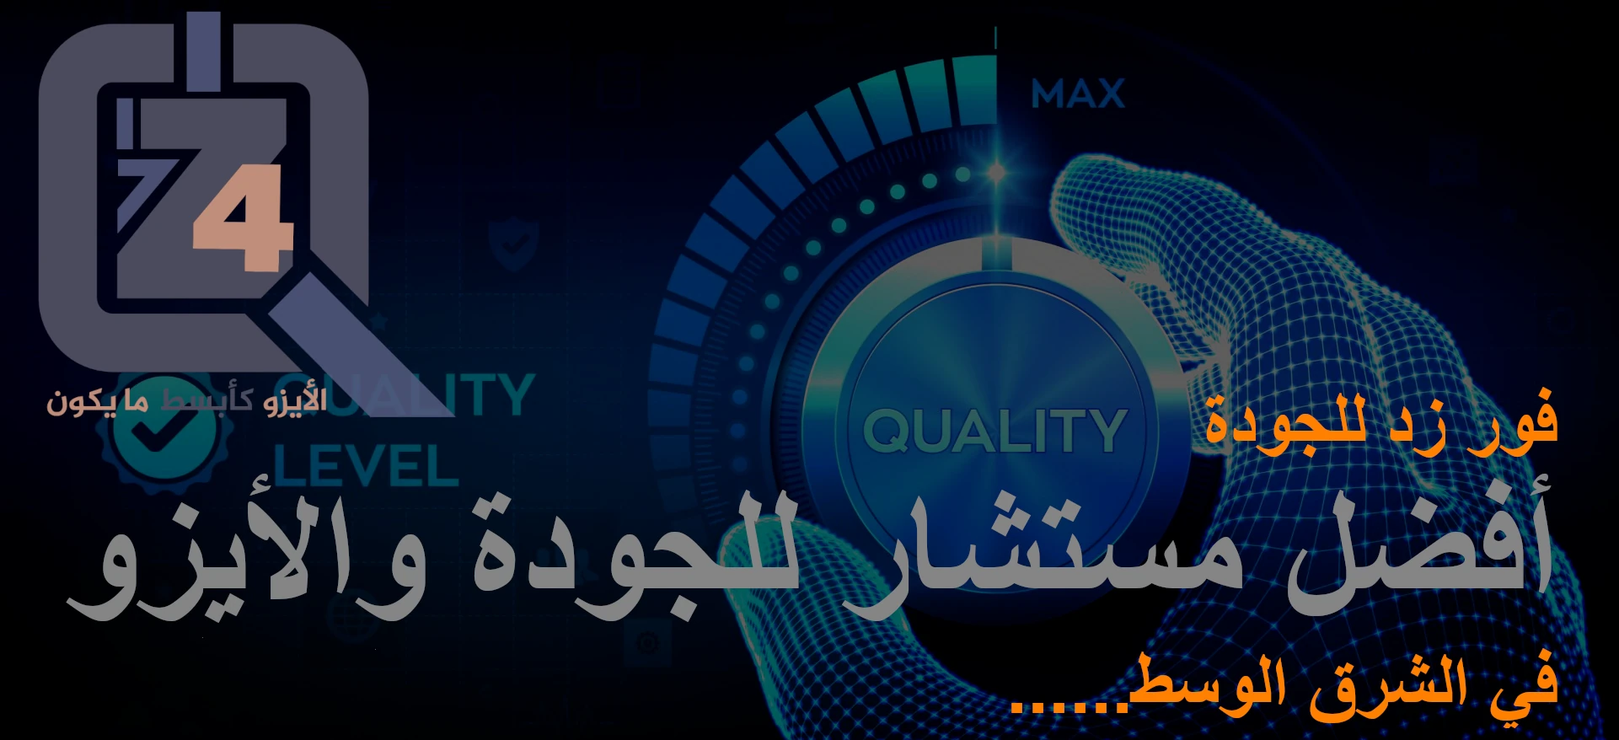
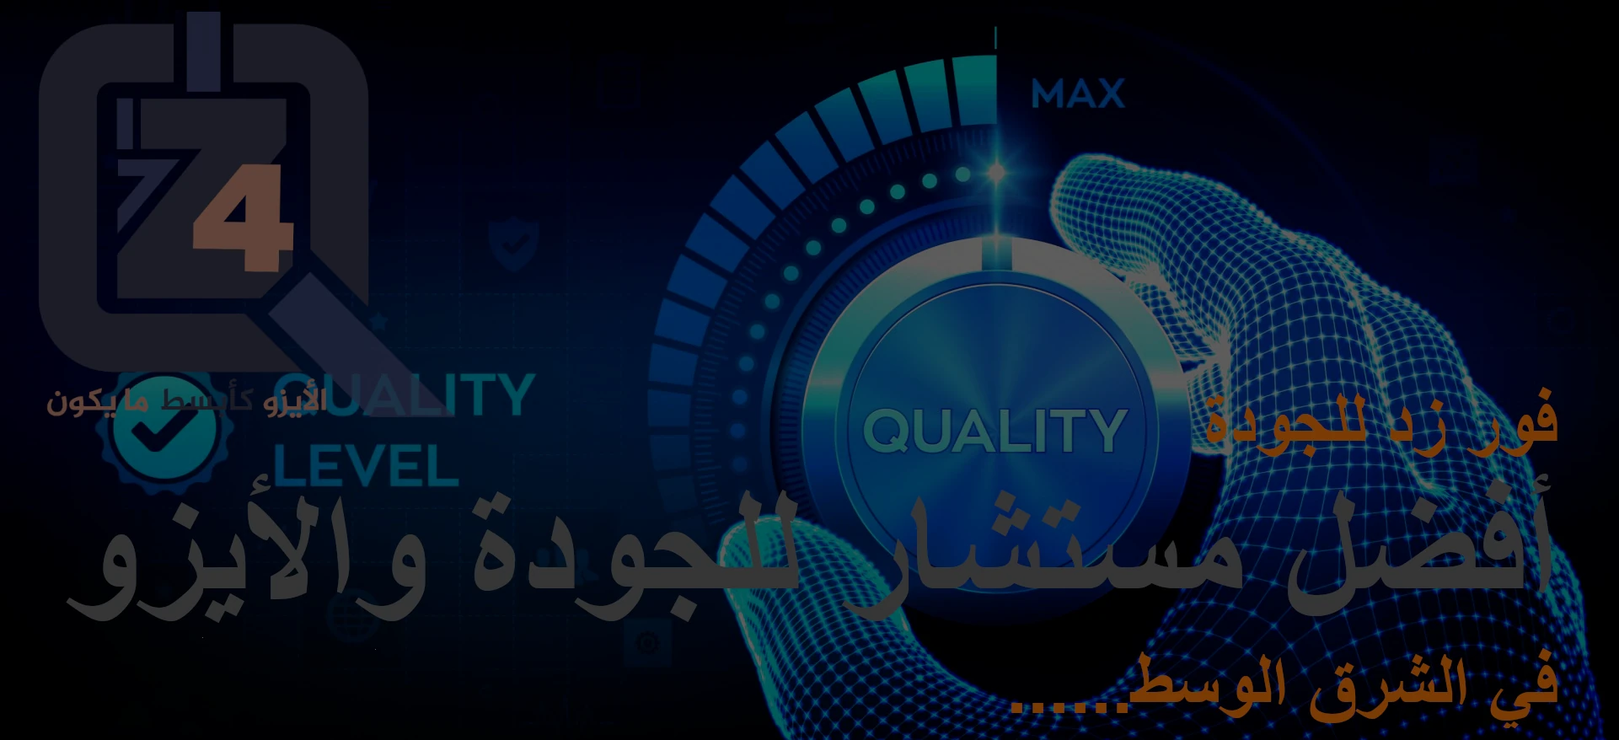
a

diff --git a/ar/index.html b/ar/index.html
@@ -120,6 +120,7 @@
                 </ul>
             </div>
         </div>
+        <img src="images/ornament1.webp" alt="ornament" style="display: block; margin-left: auto; margin-right: auto; width: auto; max-width: 100%; height: 100%">
         <section id="about" class="section-padding">
             <div class="container">
                 <div class="row">
@@ -156,7 +157,6 @@
                         </div>
                     </div>
                 </div>
-                <img src="images/ornament1.webp" alt="ornament" style="display: block; margin-left: auto; margin-right: auto; width: auto; max-width: 100%; height: 100%">
 
                 <div class="row">
                     <div class="col-sm-6 margin-bottom30">
@@ -212,6 +212,7 @@
                 </div>
             </div>
         </section>
+        <img src="images/ornament1.webp" alt="ornament" style="display: block; margin-left: auto; margin-right: auto; width: auto; max-width: 100%; height: 100%">
         <div class="funfacts parallax-1">
             <div class="container">
                 <div class="row">
@@ -242,6 +243,7 @@
                 </div>
             </div>
         </div>
+        <img src="images/ornament1.webp" alt="ornament" style="display: block; margin-left: auto; margin-right: auto; width: auto; max-width: 100%; height: 100%">
         <div class="team">
             <div class="container">
                 <div class="row">
@@ -288,6 +290,7 @@
                 </div>
             </div>
         </div>
+        <img src="images/ornament1.webp" alt="ornament" style="display: block; margin-left: auto; margin-right: auto; width: auto; max-width: 100%; height: 100%">
         <section id="services" class="section-padding">
             <div class="container">
                 <div class="row">
@@ -309,7 +312,7 @@
                                 <i class="ion-ios-world-outline back-icon"></i>
                             </div>
                             <div class="features-text-right">
-                                <h3><span class="colored-text">تأهيل الشركات لنيل الأيزو:</h3></span>
+                                <h3><span class="colored-text" style="line-height:45px">تأهيل الشركات لنيل الأيزو:</h3></span>
                                 نقوم بفحص نظام إدارة الجودة القائم حاليًا لدى عملائنا الكرام بكل بدقة. ونختبره وفقًا لأحدث معايير الأيزو الدولية. لمعرفة ما إذا كان مؤهلاً للحصول على شهادة الأيزو. ونقدم التوصيات اللازمة لسد أي ثغرات أو نواقص. كل هذا من خلال عملية خالية من التعقيد، والأهم من ذلك بأقل تكلفة.
                             </div>
                         </div>
@@ -321,7 +324,7 @@
                                 <i class="ion-ribbon-b back-icon"></i>
                             </div>
                             <div class="features-text-right">
-                                <h3><span class="colored-text">خدمات استشارات الجودة:</h3></span>
+                                <h3><span class="colored-text" style="line-height:45px">خدمات استشارات الجودة:</h3></span>
                                 لا يتمثل عمل شركة فور زد للجودة واستشارات الأيزو في مجرد بناء نظام إدارة للجودة لعملائنا الكرام، بل في خلق ثقافة الجودة في جميع أنحاء مقر العمل. كما نقوم بتوجيه جميع عملائنا وموظفيهم خطوة بخطوة، لتغيير أعمالهم من إطار النجاح اليومي المؤقت، إلى النجاح المستمر والمستدام.
                             </div>
                         </div>
@@ -335,7 +338,7 @@
                                 <i class="icon ion-ios-medkit-outline back-icon"></i>
                             </div>
                             <div class="features-text-right">
-                                <h3><span class="colored-text">استشارات جودة الأمان الحيوي:</h3></span>
+                                <h3><span class="colored-text" style="line-height:45px">استشارات جودة الأمان الحيوي:</h3></span>
                                 نمتلك خبرة عالمية بمجال الأمان الحيوي. المجال الذي زاد الوعي والاهتمام به عالميًا أكثر من أي وقت مضى بسبب تحديات جائحة كورونا الأخيرة. لذلك تقدم لكم شركة فور زد للجودة واستشارات الأيزو أحدث المعلومات وأدق المعايير في هذا المجال ضمن حزم الاستشارات والتدريب الخاصة بنا.
                             </div>
                         </div>
@@ -347,7 +350,7 @@
                                 <i class="ion-university back-icon"></i>
                             </div>
                             <div class="features-text-right">
-                                <h3><span class="colored-text">مراقبة جودة التعليم ودعم الاعتماد:</h3></span>
+                                <h3><span class="colored-text" style="line-height:45px">مراقبة جودة التعليم ودعم الاعتماد:</h3></span>
                                 تفخر شركة فور زد للجودة واستشارات الأيزو بكفاءة مستشاريها لخبراتهم الأكاديمية الطويلة بمجال التعليم بمصر والسعودية وألمانيا وفنلندا وجنوب أفريقيا. ونثق بقدراتهم في التعامل الاحترافي مع كل ما يرتبط بجودة التعليم والاعتماد الأكاديمي بالمدارس والمعاهد والجامعات.
                             </div>
                         </div>
@@ -361,7 +364,7 @@
                                 <i class="ion-ios-people back-icon"></i>
                             </div>
                             <div class="features-text-right">
-                                <h3><span class="colored-text">تنمية الموارد البشرية:</h3></span>
+                                <h3><span class="colored-text" style="line-height:45px">تنمية الموارد البشرية:</h3></span>
                                 تولي شركة فور زد للجودة واستشارات الأيزو اهتمامًا كبيرًا بتنمية الثروة البشرية؛ الجوهر الأساسي لأي تغيير وتطوير للأداء. لهذا نحرص على توفير خدمات خاصة ضمن حزم الاستشارات الخاصة بنا، لتدريب القوى العاملة وفقًا لأحدث معايير الجودة العالمية، وأوثق مصادر المعرفة.
                             </div>
                         </div>
@@ -373,7 +376,7 @@
                                 <i class="ion-ios-crop back-icon"></i>
                             </div>
                             <div class="features-text-right">
-                                <h3><span class="colored-text">قياس الأداء ومراقبة الجودة:</h3></span>
+                                <h3><span class="colored-text" style="line-height:45px">قياس الأداء ومراقبة الجودة:</h3></span>
                                 نقدم هذه الخدمة للعملاء الذين نالوا بالفعل شهادة الأيزو، لكن يرغبون بالاستعانة بمصادر خارجية محايدة لعمل تدقيق داخلي شامل. أو لمن لديهم نظام جودة قائم لكن غير متأكدين ما إذا كان كافيًا للتأهل لنيل شهادة الأيزو. أو لمن يحتاج عمل تدقيق كامل فقط لمجرد التقييم الذاتي.
                             </div>
                         </div>
@@ -387,7 +390,7 @@
                                 <i class="ion-ios-browsers-outline back-icon"></i>
                             </div>
                             <div class="features-text-right">
-                                <h3><span class="colored-text">دعم عملية التراخيص:</h3></span>
+                                <h3><span class="colored-text" style="line-height:45px">دعم عملية التراخيص:</h3></span>
                                 نقوم بالدعم الفني لعملائنا الكرام من التجار والصيدليات والشركات أثناء عملية إصدار التراخيص وتجديدها من خلال سد أي ثغرات في تلبية المتطلبات الحكومية. كما نساعد جميع عملائنا في صياغة رؤية ورسالة وسياسة الشركات، وفي تطوير الملف التعريفي لجذب المزيد من العملاء.
                             </div>
                         </div>
@@ -399,7 +402,7 @@
                                 <i class="ion-ios-color-wand-outline back-icon"></i>
                             </div>
                             <div class="features-text-right">
-                                <h3><span class="colored-text">التخطيط الاستراتيجي:</h3></span>
+                                <h3><span class="colored-text" style="line-height:45px">التخطيط الاستراتيجي:</h3></span>
                                 تساعد شركة فور زد للجودة واستشارات الأيزو عملائها من الشركات أو المؤسسات، في تنفيذ التخطيط الاستراتيجي الاحترافي. عن طريق تصميم، والدعم في تنفيذ خارطة طريق واضحة وسلسة. يتم فيها تحديد الأهداف، وتوفير الموارد اللازمة لتحقيق تلك الأهداف في أسرع وقت.
                             </div>
                         </div>
@@ -413,7 +416,7 @@
                                 <i class="icon ion-ios-book-outline back-icon"></i>
                             </div>
                             <div class="features-text-right">
-                                <h3><span class="colored-text">ورش العمل والدورات التدريبية:</h3></span>
+                                <h3><span class="colored-text" style="line-height:45px">ورش العمل والدورات التدريبية:</h3></span>
                                 التدريب هو عماد صقل القدرات والمهارات لأي قوى عاملة في أي مجال. لكن هناك فرق شاسع بين المخرجات التدريبية من مدرب لآخر. نحن في فور زد للجودة نعرف كيف نجعل من تدريبكم حدث فارق في جودة الأداء وفعالية القيام بمهمات العمل. لأننا نحدد أولًا احتياجاتك التدريبية بدقة ونصمم ما يناسبها بكل حرفية.
                             </div>
                         </div>
@@ -425,7 +428,7 @@
                                 <i class="ion-android-desktop back-icon"></i>
                             </div>
                             <div class="features-text-right">
-                                <h3><span class="colored-text">تصميم وتقييم المواقع والحملات الإعلانية:</h3></span>
+                                <h3><span class="colored-text" style="line-height:45px">تصميم وتقييم المواقع والحملات الإعلانية:</h3></span>
                                 لدينا خبرة واسعة في تصميم وتقييم المواقع الإلكترونية، ووسائل الدعاية والإعلان. ونعدكم بزيادة البريق والتألق لجميع خدماتكم ومنتجاتكم، وتوسيع قاعدة العملاء من خلال ضمان تقديم أنفسكم بشكل احترافي يلائم طبيعة أعمالكم، ليس فقط عبر الموقع الإلكتروني الرسمي بل عبر جميع منصات التواصل الاجتماعي.
                             </div>
                         </div>
@@ -433,6 +436,7 @@
                 </div>
             </div>
         </section>
+        <img src="images/ornament1.webp" alt="ornament" style="display: block; margin-left: auto; margin-right: auto; width: auto; max-width: 100%; height: 100%">
         <div class="testimonials parallax">
             <div class="container">
                 <div class="row">
@@ -522,6 +526,7 @@
                 </div>
             </div>
         </div>
+        <img src="images/ornament1.webp" alt="ornament" style="display: block; margin-left: auto; margin-right: auto; width: auto; max-width: 100%; height: 100%">
         <div class="price-tables section-padding">
             <div class="container">
                   <div class="row">
@@ -606,6 +611,7 @@
                 <br><br><a title="تواصل معنا" href="#contact" class="btn btn-white btn-radius btn-lg">دعنا نتواصل الآن</a>
             </div>
         </div>
+        <img src="images/ornament1.webp" alt="ornament" style="display: block; margin-left: auto; margin-right: auto; width: auto; max-width: 100%; height: 100%">
         <section id="work" class="section-padding">
             <div class="container">
                 <div class="row">
@@ -715,6 +721,7 @@
                 </div>
             </div>
         </section>
+        <img src="images/ornament1.webp" alt="ornament" style="display: block; margin-left: auto; margin-right: auto; width: auto; max-width: 100%; height: 100%">
         <section id="blog" class="section-padding">
             <div class="container">
                 <div class="row">
@@ -783,6 +790,7 @@
                 <a title="تواصل معنا" href="#contact" class="btn btn-border-black btn-radius btn-lg">اطلب الخدمة الآن</a>
             </div>
         </div>
+        <img src="images/ornament1.webp" alt="ornament" style="display: block; margin-left: auto; margin-right: auto; width: auto; max-width: 100%; height: 100%">
         <section id="contact" class="section-padding">
             <div class="container">
                 <div class="row">
@@ -873,6 +881,7 @@
                 </div>
             </div>
         </section>
+        <img src="images/ornament1.webp" alt="ornament" style="display: block; margin-left: auto; margin-right: auto; width: auto; max-width: 100%; height: 100%">
         <footer class="footer">
             <div style="text-align: center;">
                 <span class="alo">فور زد للجودة</span>
@@ -888,7 +897,7 @@
                     <li><a title="تابعنا على اليوتيوب" href="https://www.youtube.com/channel/UCcyVD18GqrnlKNynfqzhw6w"><i class="icon icon-social-youtube"></i></a></li>
                     <li><a title="فور زد الصفحة الرسمية" href="https://www.the4z.com"><i class="icon icon-social-dribbble"></i></a></li>
                 </ul>
-                <b><p><span class="copyright">&copy; 2022. تصميم <a style="color: #000066;" title="فور زد للجودة - الموقع الرسمي" href="https://www.the4z.com/ar">شركة فور زد للجودة</a></span></b></p>
+                <b><span class="copyright">&copy; 2022. تصميم <a class="colored-text" title="فور زد للجودة - الموقع الرسمي" href="https://www.the4z.com/ar">شركة فور زد للجودة</a></span></b></p>
             </div>
         </footer>
         <script src="js/jquery.min.js" type="text/javascript"></script>

diff --git a/post-single1.html b/post-single1.html
@@ -144,7 +144,7 @@
                     <li><a title="Follow us on Youtube" href="https://www.youtube.com/channel/UCcyVD18GqrnlKNynfqzhw6w"><i class="icon icon-social-youtube"></i></a></li>
                     <li><a title="4Z official Website" href="https://www.the4z.com"><i class="icon icon-social-dribbble"></i></a></li>
                 </ul>
-                <span class="copyright"; style= "color: white">&copy; 2022. Web Design by <a style= "color:#FF8000" title="4Z official Website" href="https://www.the4z.com">4Z for Quality</a></span>
+                <span class="copyright"; style= "color: white">&copy; 2022. Web Design by <a class="colored-text" title="4Z official Website" href="https://www.the4z.com">4Z for Quality</a></span>
             </div>
             <img src="images/ornament1.webp" alt="ornament" style="display: block; margin-left: auto; margin-right: auto; width: auto; max-width: 100%; height: 100%">
         </footer>

diff --git a/post-single2.html b/post-single2.html
@@ -148,7 +148,7 @@
                     <li><a title="Follow us on Youtube" href="https://www.youtube.com/channel/UCcyVD18GqrnlKNynfqzhw6w"><i class="icon icon-social-youtube"></i></a></li>
                     <li><a title="4Z official Website" href="https://www.the4z.com"><i class="icon icon-social-dribbble"></i></a></li>
                 </ul>
-                <span class="copyright"; style= "color: white">&copy; 2022. Web Design by <a style= "color:#FF8000" title="4Z official Website" href="https://www.the4z.com">4Z for Quality</a></span>
+                <span class="copyright"; style= "color: white">&copy; 2022. Web Design by <a class="colored-text" title="4Z official Website" href="https://www.the4z.com">4Z for Quality</a></span>
             </div>
             <img src="images/ornament1.webp" alt="ornament" style="display: block; margin-left: auto; margin-right: auto; width: auto; max-width: 100%; height: 100%">
         </footer>

diff --git a/post-single3.html b/post-single3.html
@@ -147,7 +147,7 @@
                     <li><a title="Follow us on Youtube" href="https://www.youtube.com/channel/UCcyVD18GqrnlKNynfqzhw6w"><i class="icon icon-social-youtube"></i></a></li>
                     <li><a title="4Z official Website" href="https://www.the4z.com"><i class="icon icon-social-dribbble"></i></a></li>
                 </ul>
-                <span class="copyright"; style= "color: white">&copy; 2022. Web Design by <a style= "color:#FF8000" title="4Z official Website" href="https://www.the4z.com">4Z for Quality</a></span>
+                <span class="copyright"; style= "color: white">&copy; 2022. Web Design by <a class="colored-text" title="4Z official Website" href="https://www.the4z.com">4Z for Quality</a></span>
             </div>
             <img src="images/ornament1.webp" alt="ornament" style="display: block; margin-left: auto; margin-right: auto; width: auto; max-width: 100%; height: 100%">
         </footer>

diff --git a/ar/ceo-message.html b/ar/ceo-message.html
@@ -159,7 +159,7 @@
                     <li><a title="تابعنا على اليوتيوب" href="https://www.youtube.com/channel/UCcyVD18GqrnlKNynfqzhw6w"><i class="icon icon-social-youtube"></i></a></li>
                     <li><a title="فور زد الموقع الرسمي" href="https://www.the4z.com"><i class="icon icon-social-dribbble"></i></a></li>
                 </ul>
-                <span class="copyright">&copy; 2022. تصميم <a style= "color:#FF8000" title="فور زد للجودة - الموقع الرسمي" href="https://www.the4z.com/ar">شركة فور زد للجودة</a></span>
+                <span class="copyright">&copy; 2022. تصميم <a class="colored-text" title="فور زد للجودة - الموقع الرسمي" href="https://www.the4z.com/ar">شركة فور زد للجودة</a></span>
             </div>
         </footer>
         <!-- jQuery (necessary for Bootstrap's JavaScript plugins) -->

diff --git a/ar/edu-quality.html b/ar/edu-quality.html
@@ -191,7 +191,7 @@
                     <li><a title="تابعنا على اليوتيوب" href="https://www.youtube.com/channel/UCcyVD18GqrnlKNynfqzhw6w"><i class="icon icon-social-youtube"></i></a></li>
                     <li><a title="فور زد الموقع الرسمي" href="https://www.the4z.com"><i class="icon icon-social-dribbble"></i></a></li>
                 </ul>
-                <span class="copyright">&copy; 2022. تصميم <a style= "color:#FF8000" title="فور زد للجودة - الموقع الرسمي" href="https://www.the4z.com/ar">شركة فور زد للجودة</a></span>
+                <span class="copyright">&copy; 2022. تصميم <a class="colored-text" title="فور زد للجودة - الموقع الرسمي" href="https://www.the4z.com/ar">شركة فور زد للجودة</a></span>
             </div>
         </footer>
         <!-- jQuery (necessary for Bootstrap's JavaScript plugins) -->

diff --git a/ar/iso-9001.html b/ar/iso-9001.html
@@ -198,7 +198,7 @@
                     <li><a title="تابعنا على اليوتيوب" href="https://www.youtube.com/channel/UCcyVD18GqrnlKNynfqzhw6w"><i class="icon icon-social-youtube"></i></a></li>
                     <li><a title="فور زد الموقع الرسمي" href="https://www.the4z.com"><i class="icon icon-social-dribbble"></i></a></li>
                 </ul>
-                <span class="copyright">&copy; 2022. تصميم <a style= "color:#FF8000" title="فور زد للجودة - الموقع الرسمي" href="https://www.the4z.com/ar">شركة فور زد للجودة</a></span>
+                <span class="copyright">&copy; 2022. تصميم <a class="colored-text" title="فور زد للجودة - الموقع الرسمي" href="https://www.the4z.com/ar">شركة فور زد للجودة</a></span>
             </div>
         </footer>
         <!-- jQuery (necessary for Bootstrap's JavaScript plugins) -->

diff --git a/ar/iso-standards.html b/ar/iso-standards.html
@@ -255,7 +255,7 @@
                     <li><a title="تابعنا على اليوتيوب" href="https://www.youtube.com/channel/UCcyVD18GqrnlKNynfqzhw6w"><i class="icon icon-social-youtube"></i></a></li>
                     <li><a title="فور زد الموقع الرسمي" href="https://www.the4z.com"><i class="icon icon-social-dribbble"></i></a></li>
                 </ul>
-                <span class="copyright">&copy; 2022. تصميم <a style= "color:#FF8000" title="فور زد للجودة - الموقع الرسمي" href="https://www.the4z.com/ar">شركة فور زد للجودة</a></span>
+                <span class="copyright">&copy; 2022. تصميم <a class="colored-text" title="فور زد للجودة - الموقع الرسمي" href="https://www.the4z.com/ar">شركة فور زد للجودة</a></span>
             </div>
         </footer>
         <!-- jQuery (necessary for Bootstrap's JavaScript plugins) -->

diff --git a/ar/post-single1.html b/ar/post-single1.html
@@ -149,7 +149,7 @@
                     <li><a title="تابعنا على اليوتيوب" href="https://www.youtube.com/channel/UCcyVD18GqrnlKNynfqzhw6w"><i class="icon icon-social-youtube"></i></a></li>
                     <li><a title="فور زد الموقع الرسمي" href="https://www.the4z.com"><i class="icon icon-social-dribbble"></i></a></li>
                 </ul>
-                <span class="copyright">&copy; 2022. تصميم <a style= "color:#FF8000" title="فور زد للجودة - الموقع الرسمي" href="https://www.the4z.com/ar">شركة فور زد للجودة</a></span>
+                <span class="copyright">&copy; 2022. تصميم <a class="colored-text" title="فور زد للجودة - الموقع الرسمي" href="https://www.the4z.com/ar">شركة فور زد للجودة</a></span>
             </div>
         </footer>
         <!-- jQuery (necessary for Bootstrap's JavaScript plugins) -->

diff --git a/ar/post-single2.html b/ar/post-single2.html
@@ -151,7 +151,7 @@
                     <li><a title="تابعنا على اليوتيوب" href="https://www.youtube.com/channel/UCcyVD18GqrnlKNynfqzhw6w"><i class="icon icon-social-youtube"></i></a></li>
                     <li><a title="فور زد الموقع الرسمي" href="https://www.the4z.com"><i class="icon icon-social-dribbble"></i></a></li>
                 </ul>
-                <span class="copyright">&copy; 2022. تصميم <a style= "color:#FF8000" title="فور زد للجودة - الموقع الرسمي" href="https://www.the4z.com/ar">شركة فور زد للجودة</a></span>
+                <span class="copyright">&copy; 2022. تصميم <a class="colored-text" title="فور زد للجودة - الموقع الرسمي" href="https://www.the4z.com/ar">شركة فور زد للجودة</a></span>
             </div>
         </footer>
         <!-- jQuery (necessary for Bootstrap's JavaScript plugins) -->

diff --git a/ar/post-single3.html b/ar/post-single3.html
@@ -152,7 +152,7 @@
                     <li><a title="تابعنا على اليوتيوب" href="https://www.youtube.com/channel/UCcyVD18GqrnlKNynfqzhw6w"><i class="icon icon-social-youtube"></i></a></li>
                     <li><a title="فور زد الموقع الرسمي" href="https://www.the4z.com"><i class="icon icon-social-dribbble"></i></a></li>
                 </ul>
-                <span class="copyright">&copy; 2022. تصميم <a style= "color:#FF8000" title="فور زد للجودة - الموقع الرسمي" href="https://www.the4z.com/ar">شركة فور زد للجودة</a></span>
+                <span class="copyright">&copy; 2022. تصميم <a class="colored-text" title="فور زد للجودة - الموقع الرسمي" href="https://www.the4z.com/ar">شركة فور زد للجودة</a></span>
             </div>
         </footer>
         <!-- jQuery (necessary for Bootstrap's JavaScript plugins) -->

diff --git a/ar/post-single4.html b/ar/post-single4.html
@@ -152,7 +152,7 @@
                     <li><a title="تابعنا على اليوتيوب" href="https://www.youtube.com/channel/UCcyVD18GqrnlKNynfqzhw6w"><i class="icon icon-social-youtube"></i></a></li>
                     <li><a title="فور زد الموقع الرسمي" href="https://www.the4z.com"><i class="icon icon-social-dribbble"></i></a></li>
                 </ul>
-                <span class="copyright">&copy; 2022. تصميم <a style= "color:#FF8000" title="فور زد للجودة - الموقع الرسمي" href="https://www.the4z.com/ar">شركة فور زد للجودة</a></span>
+                <span class="copyright">&copy; 2022. تصميم <a class="colored-text" title="فور زد للجودة - الموقع الرسمي" href="https://www.the4z.com/ar">شركة فور زد للجودة</a></span>
             </div>
         </footer>
         <!-- jQuery (necessary for Bootstrap's JavaScript plugins) -->
